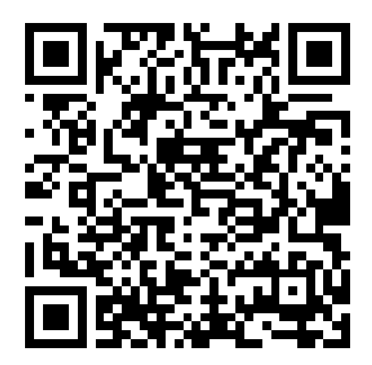
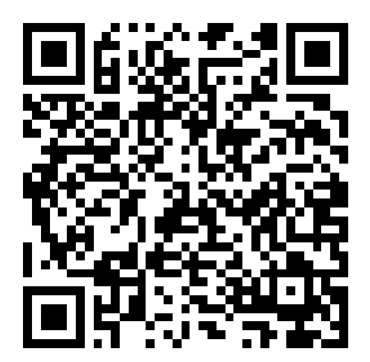
Update payment details to hadhip6252@sbi and replace QR code

diff --git a/payment/qr/index.html b/payment/qr/index.html
@@ -183,13 +183,13 @@ src="https://www.facebook.com/tr?id=958547097011254&ev=PageView&noscript=1"
 <div class="scan-line absolute left-0 right-0 h-0.5 bg-secondary shadow-[0_0_8px_#10B981] z-20"></div>
 <img alt="Secure Payment QR Code" class="w-full h-full object-contain" src="./qr-code.png">
 </div>
-<a href="gpay://upi/pay?pa=afsalshafeek333@okaxis&amp;cu=INR&amp;pn=Hadhi&amp;am=99.00&amp;tn=Ai+Webinar" class="w-24 h-24 bg-primary text-on-primary flex flex-col items-center justify-center gap-1 rounded-xl font-label-sm hover:opacity-90 transition-all active:scale-95 shadow-lg mb-2 text-center">
+<a href="gpay://upi/pay?pa=hadhip6252@sbi&amp;cu=INR&amp;pn=hadhi&amp;am=99.00&amp;tn=Ai+Webinar" class="w-24 h-24 bg-primary text-on-primary flex flex-col items-center justify-center gap-1 rounded-xl font-label-sm hover:opacity-90 transition-all active:scale-95 shadow-lg mb-2 text-center">
     <span class="material-symbols-outlined text-[32px]">payments</span>
     <span class="leading-tight">Google<br>Pay</span>
 </a><div class="flex flex-col items-center gap-2 p-3 bg-surface-container rounded-lg border border-outline-variant w-full max-w-[240px] mb-2">
     <span class="font-label-sm text-label-sm text-on-surface-variant uppercase tracking-wider">UPI ID</span>
     <div class="flex items-center gap-2">
-        <code class="font-body-md font-semibold text-primary">afsalshafeek333@okaxis</code>
+        <code class="font-body-md font-semibold text-primary">hadhip6252@sbi</code>
         <button id="copy-upi-btn" class="material-symbols-outlined text-secondary text-[20px] hover:text-primary transition-colors active:scale-90" title="Copy UPI ID">content_copy</button>
     </div>
 </div><div class="flex flex-col items-center gap-1 mt-2">
@@ -244,7 +244,7 @@ src="https://www.facebook.com/tr?id=958547097011254&ev=PageView&noscript=1"
         if (copyBtn) {
             copyBtn.addEventListener('click', (e) => {
                 e.stopPropagation();
-                const upiId = 'afsalshafeek333@okaxis';
+                const upiId = 'hadhip6252@sbi';
                 navigator.clipboard.writeText(upiId).then(() => {
                     // Change icon to checkmark and color to green for 2 seconds
                     const originalText = copyBtn.textContent;
